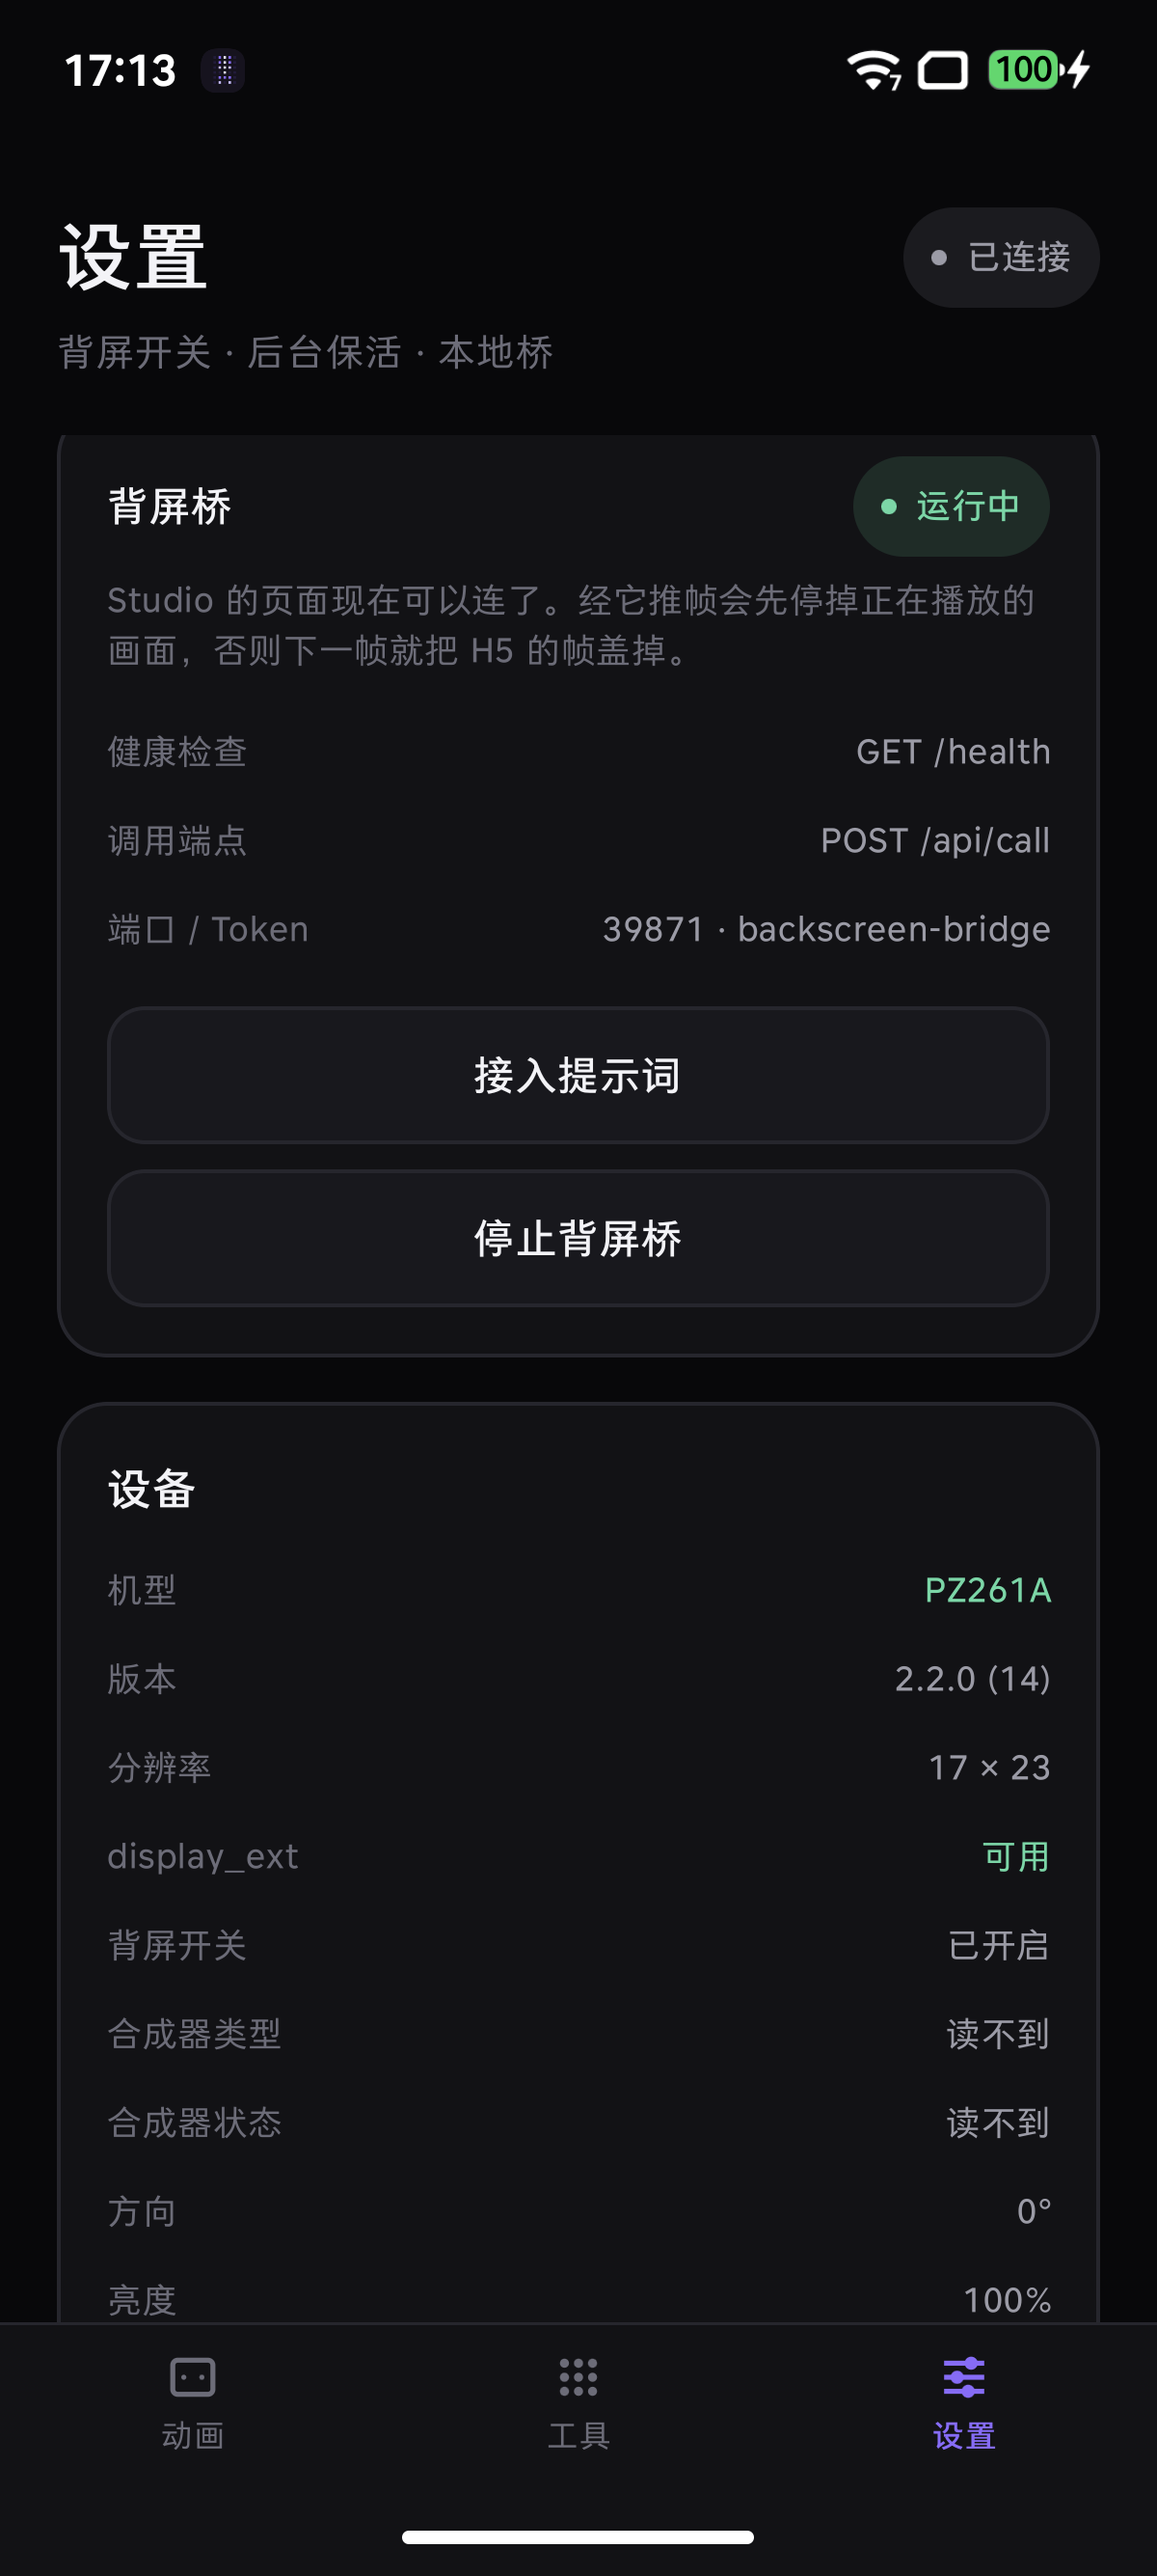
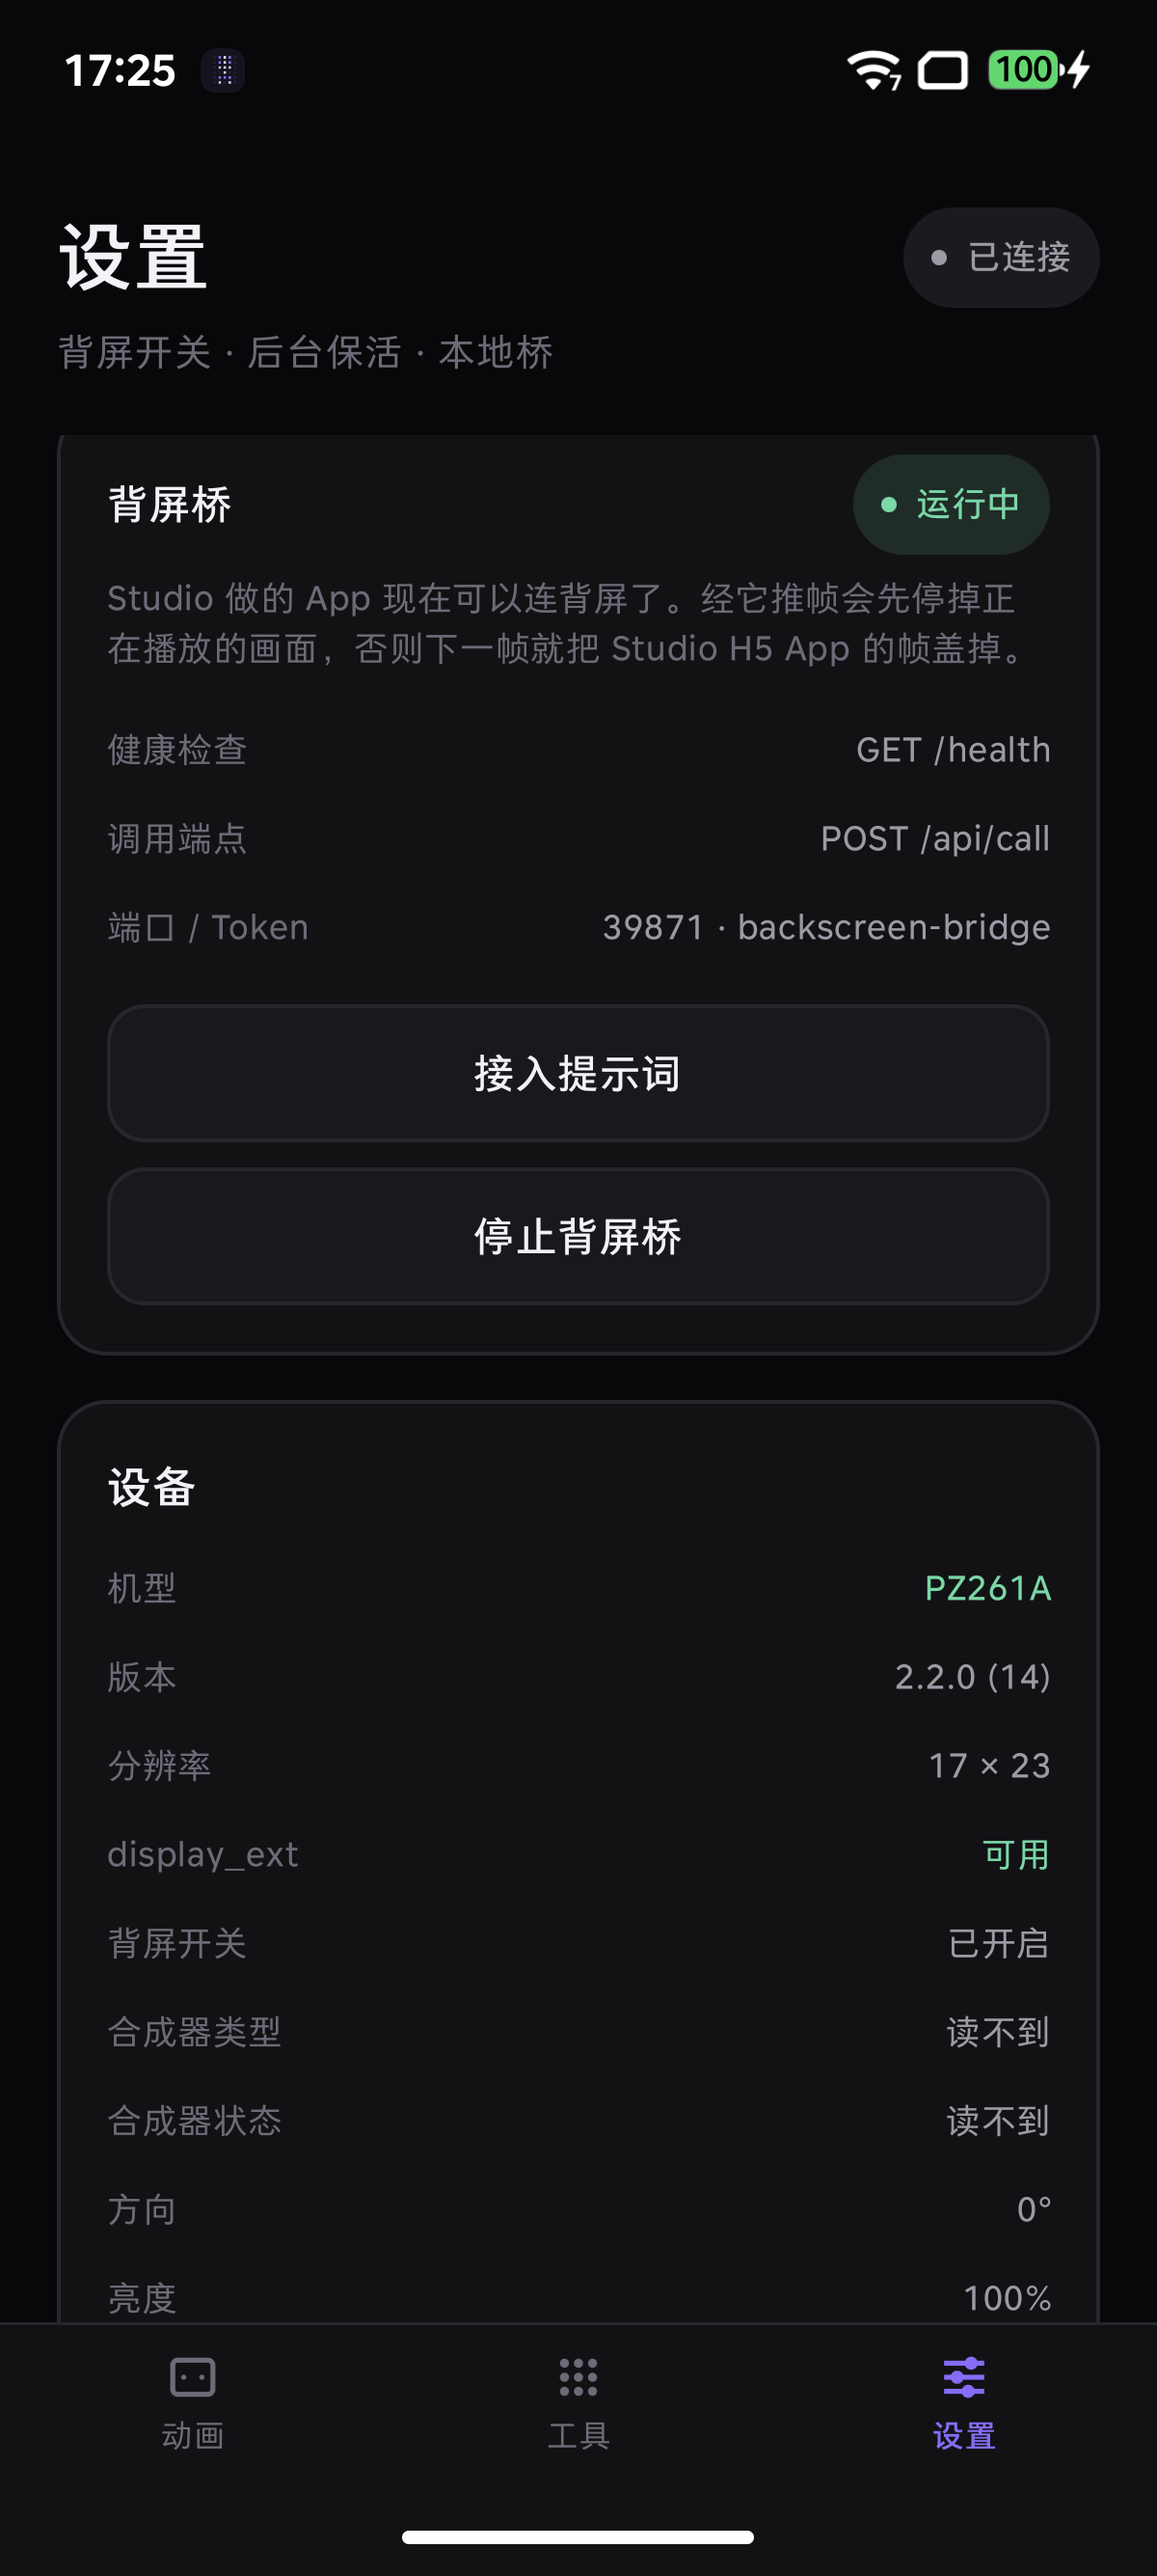
设置页文案：统一称「Studio H5 App」
背屏桥面板原来写「Studio 的页面现在可以连了」，容易被理解成 Studio 的页面编辑器
本身能连背屏。改成「Studio 做的 App 现在可以连背屏了」，后面提到的 H5 也统一成
「Studio H5 App」；README 同段落一并改，设置页第二张截图重拍。

diff --git a/app/src/main/java/com/stepx/backmatrix/ui/SettingsScreen.kt b/app/src/main/java/com/stepx/backmatrix/ui/SettingsScreen.kt
@@ -209,9 +209,9 @@ fun SettingsScreen(
                 Spacer(Modifier.height(6.dp))
                 Text(
                     if (bridgeOn)
-                        "Studio 的页面现在可以连了。经它推帧会先停掉正在播放的画面，否则下一帧就把 H5 的帧盖掉。"
+                        "Studio 做的 App 现在可以连背屏了。经它推帧会先停掉正在播放的画面，否则下一帧就把 Studio H5 App 的帧盖掉。"
                     else
-                        "给 Step Studio 做的 H5 用：启动后在本机回环上开一个 HTTP 服务，页面经壳代发请求就能推帧、清屏、查状态。只绑 127.0.0.1，不对外网开放。",
+                        "给 Step Studio 做的 H5 App 用：启动后在本机回环上开一个 HTTP 服务，页面经壳代发请求就能推帧、清屏、查状态。只绑 127.0.0.1，不对外网开放。",
                     color = Palette.dim,
                     fontSize = 11.sp,
                     lineHeight = 16.sp

diff --git a/README.md b/README.md
@@ -82,10 +82,10 @@ PZ261A 固件注册了一个 `display_ext` 系统服务，没有 SDK 也没有 A
 - 只有一个 agent 通道，来电 / 相机等场景由固件决定优先级，应用抢不过
 - 机型不对或服务不存在时界面直接标出来
 
-## 本地桥（给 Step Studio 的 H5）
+## 本地桥（给 Step Studio 的 H5 App）
 
 设置页 →「背屏桥」→ 启动，应用会在 `127.0.0.1:39871` 起一个只绑回环的 HTTP 服务。
-Studio 做的页面直接 `fetch` 会被壳的 CSP 拦住，得走壳的 `request` 代发，桥再把帧转给背屏。
+Studio 做的 App 里直接 `fetch` 会被壳的 CSP 拦住，得走壳的 `request` 代发，桥再把帧转给背屏。
 
 | 入口 | 说明 |
 | --- | --- |
@@ -94,7 +94,7 @@ Studio 做的页面直接 `fetch` 会被壳的 CSP 拦住，得走壳的 `reques
 | 能力 | `set_back_screen_frame`（`frame: int[391]`）、`clear_back_screen_frame`、`get_back_screen_display_info` |
 
 - 帧是 `int[391]`，索引 `y*17+x`，取值 0..255；桥推的是原始帧，不套用界面上的亮度与旋转
-- 推帧前会先停掉正在播放的动画 / 工具，否则下一帧就把 H5 的帧盖掉
+- 推帧前会先停掉正在播放的动画 / 工具，否则下一帧就把 Studio H5 App 的帧盖掉
 - 业务失败也是 HTTP 200 + `{"ok":false,"error":"..."}`，页面只能靠 body 判断
 - 端口与 Token 在设置页里能直接看到；接入提示词点「背屏桥 → 接入提示词」即可整段复制，仓库里同一份在 [docs/STUDIO_PROMPT.md](docs/STUDIO_PROMPT.md)
 
@@ -173,7 +173,7 @@ tools/convert_demo.py             桌面端同款转换，生成内置资源
 - 敲击计数分不出「敲背面」和「敲桌子」，放在桌上敲桌子同样会记；把手机平移着放到桌面
   （机身不转）时静置闸门攒不够，也可能误计，灵敏度调低一档即可
 - 蓝牙雷达的方向是地址散列的固定值，手机没有测向天线，**方向是装饰性的**
-- 本地桥只绑 `127.0.0.1`，桌面浏览器里预览 Studio 页面连不到，必须真机
+- 本地桥只绑 `127.0.0.1`，桌面浏览器里预览 Studio H5 App 连不到，必须真机
 - `getBackScreenAnimationInfo()` 在背屏熄灭或空闲时不回，设置页的「合成器类型 / 状态」会显示「读不到」
 - 不读取通知，不上传数据；联网只用于节点探测、流量计数和读 netdata / rig-exporter
 
